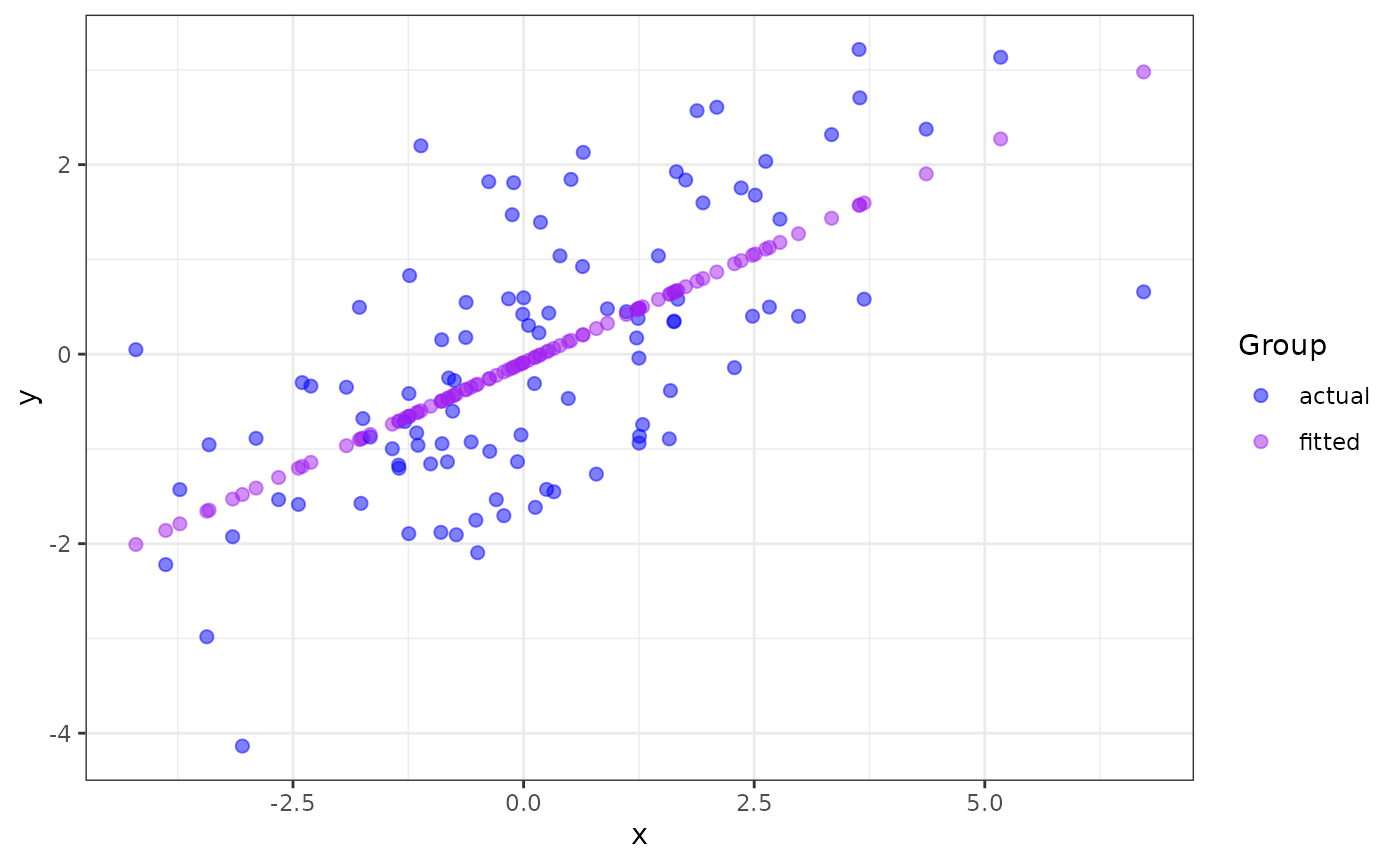
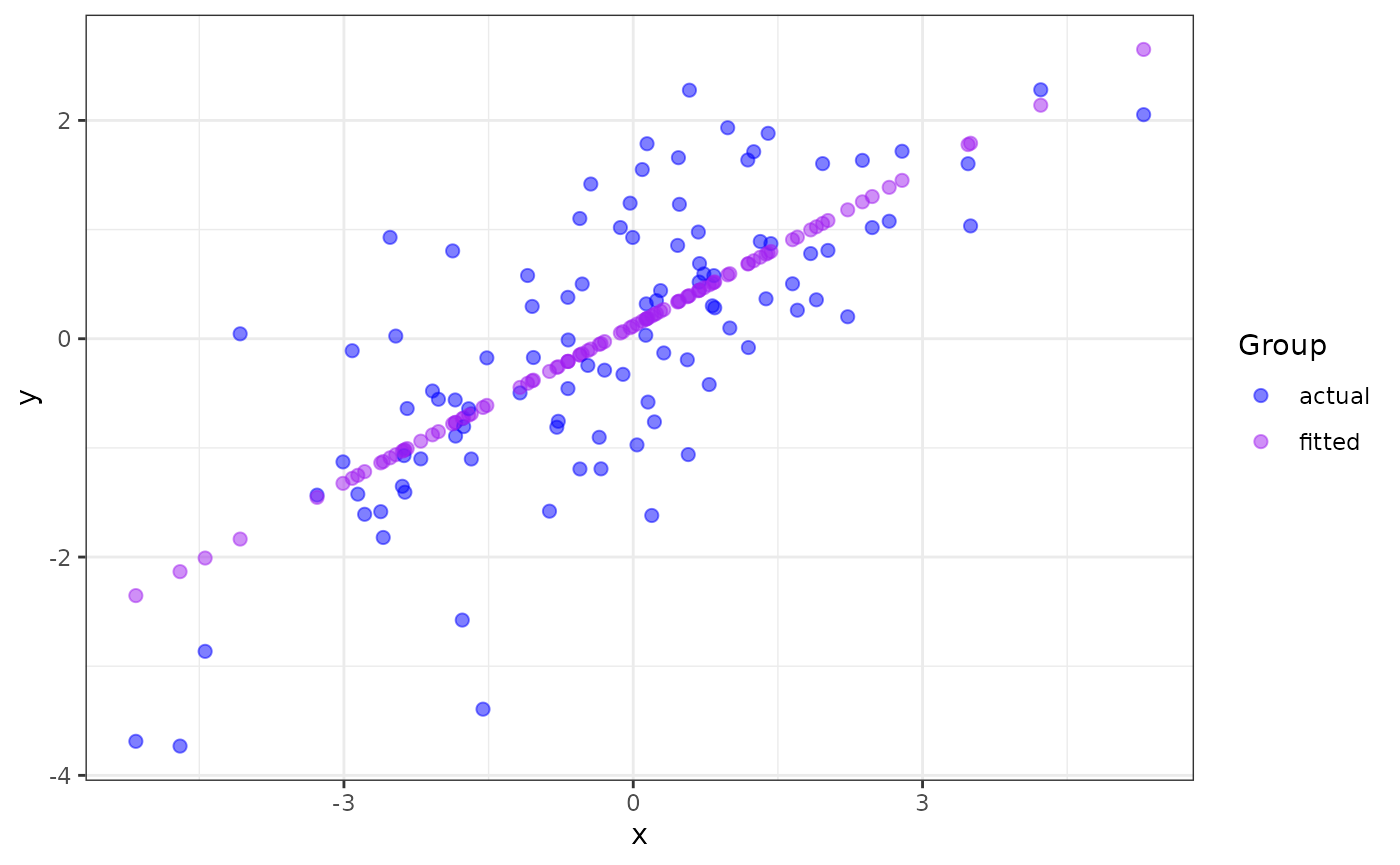
Built site for ggmatplot: 0.1.1@82f1c9f

diff --git a/articles/ggmatplot.html b/articles/ggmatplot.html
@@ -103,7 +103,7 @@
 <span class="va">x</span> <span class="op">&lt;-</span> <span class="fu"><a href="https://rdrr.io/r/base/c.html" class="external-link">c</a></span><span class="op">(</span><span class="fu"><a href="https://rdrr.io/r/stats/Normal.html" class="external-link">rnorm</a></span><span class="op">(</span><span class="fl">100</span>, sd <span class="op">=</span> <span class="fl">2</span><span class="op">)</span><span class="op">)</span>
 
 <span class="fu"><a href="https://rdrr.io/r/utils/head.html" class="external-link">head</a></span><span class="op">(</span><span class="va">x</span><span class="op">)</span>
-<span class="co">#&gt; [1]  1.6563606  1.5919020 -1.1591023 -0.1628230 -1.2444578  0.5138979</span>
+<span class="co">#&gt; [1] -1.846111 -5.157804 -2.618236 -3.009980 -1.772968  0.153177</span>
 
 <span class="co"># matrix z</span>
 <span class="va">y</span> <span class="op">&lt;-</span> <span class="va">x</span> <span class="op">*</span> <span class="fl">0.5</span> <span class="op">+</span> <span class="fu"><a href="https://rdrr.io/r/stats/Normal.html" class="external-link">rnorm</a></span><span class="op">(</span><span class="fl">100</span>, sd <span class="op">=</span> <span class="fl">1</span><span class="op">)</span>
@@ -113,12 +113,12 @@
 
 <span class="fu"><a href="https://rdrr.io/r/utils/head.html" class="external-link">head</a></span><span class="op">(</span><span class="va">z</span><span class="op">)</span>
 <span class="co">#&gt;       actual     fitted</span>
-<span class="co">#&gt; 1  1.9252570  0.6665475</span>
-<span class="co">#&gt; 2 -0.3847255  0.6371262</span>
-<span class="co">#&gt; 3 -0.8308232 -0.6185362</span>
-<span class="co">#&gt; 4  0.5841756 -0.1637967</span>
-<span class="co">#&gt; 5 -1.8944451 -0.6574957</span>
-<span class="co">#&gt; 6  1.8443846  0.1450843</span></code></pre></div>
+<span class="co">#&gt; 1 -0.5609911 -0.7676096</span>
+<span class="co">#&gt; 2 -3.6881605 -2.3531586</span>
+<span class="co">#&gt; 3 -1.5842712 -1.1372822</span>
+<span class="co">#&gt; 4 -1.1282083 -1.3248386</span>
+<span class="co">#&gt; 5 -2.5774649 -0.7325904</span>
+<span class="co">#&gt; 6 -0.5803992  0.1895955</span></code></pre></div>
 <p><code>ggmatplot</code> plots vector <code>x</code> against each column of matrix <code>z</code> using the default <code>plot_type = "point"</code>. This will be represented on the resulting plot as two groups, identified using different shapes and colors.</p>
 <div class="sourceCode" id="cb2"><pre class="downlit sourceCode r">
 <code class="sourceCode R"><span class="kw"><a href="https://rdrr.io/r/base/library.html" class="external-link">library</a></span><span class="op">(</span><span class="va"><a href="https://github.com/xuan-liang/ggmatplot" class="external-link">ggmatplot</a></span><span class="op">)</span>
